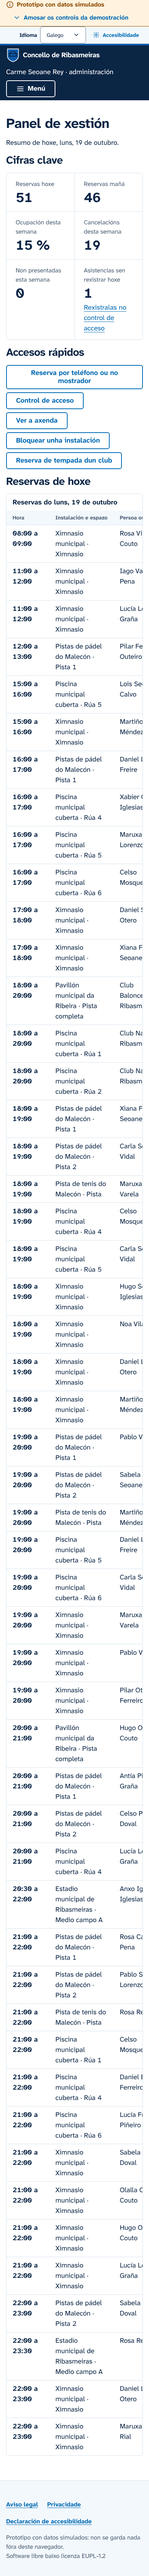
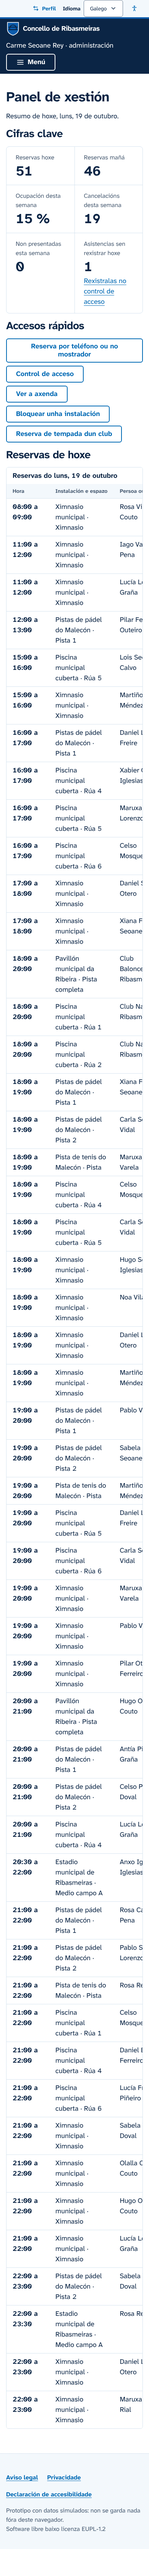
docs: capturas cos axustes e a nova pantalla para escoller perfil

Changed region(s): [[0.0, 0.0, 1.0, 0.9982], [0.8, 0.1872, 0.9538, 0.967], [0.9538, 0.1248, 0.9846, 0.156]]

diff --git a/e2e/screenshots.capture.ts b/e2e/screenshots.capture.ts
@@ -72,6 +72,9 @@ test.use({ timezoneId: 'Europe/Madrid', locale: 'gl-ES' });
 test('citizen screens', async ({ page }) => {
   await prepare(page, 'citizen');
 
+  await page.goto('./');
+  await capture(page, '00-perfil');
+
   await page.goto('./bouzalonga');
   await capture(page, '01-inicio');
 
